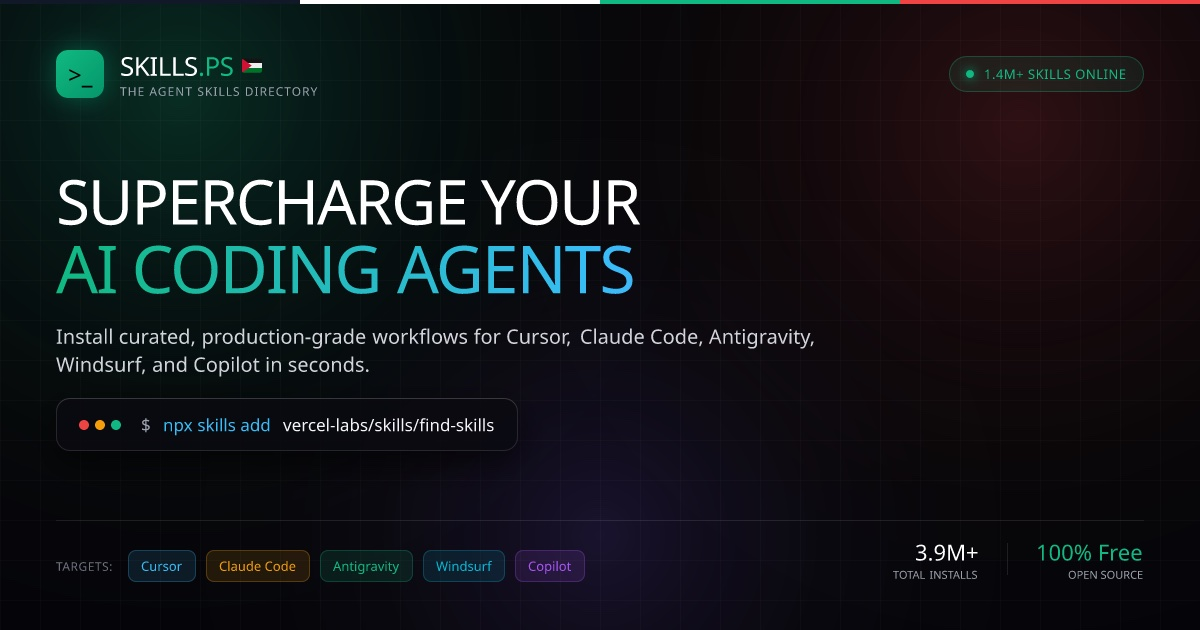
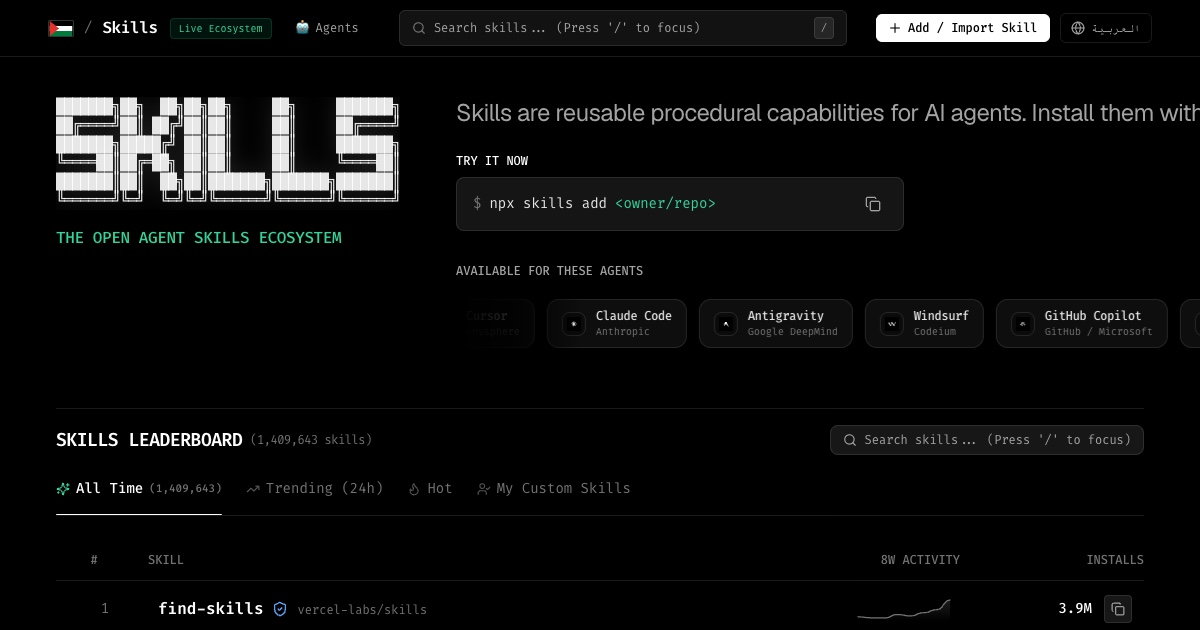
feat(og): capture authentic official product UI screenshot and clean technical metadata

diff --git a/src/app/layout.tsx b/src/app/layout.tsx
@@ -7,23 +7,23 @@ const APP_URL = process.env.NEXT_PUBLIC_APP_URL || "https://skill-ps.apps.taqat.
 export const metadata: Metadata = {
   metadataBase: new URL(APP_URL),
   title: {
-    default: "Skills.ps — The Agent Skills Directory 🇵🇸",
+    default: "Skills — The Open Agent Skills Ecosystem 🇵🇸",
     template: "%s | Skills.ps",
   },
   description:
-    "The open directory for AI coding agent skills. Discover, inspect, and install 1,400,000+ workflows for Cursor, Claude Code, Antigravity, Windsurf, and Copilot.",
+    "Skills are reusable procedural capabilities for AI agents. Discover, inspect, and install agent skills for Cursor, Claude Code, Antigravity, Windsurf, and GitHub Copilot.",
   keywords: [
-    "AI Agent Skills",
-    "Cursor Skills",
-    "Claude Code Workflows",
-    "Google Antigravity",
-    "Windsurf Rules",
-    "Developer Workflows",
-    "Agentic AI",
-    "Palestine Tech",
-    "Skills Directory",
+    "Skills",
+    "Agent Skills",
+    "Cursor",
+    "Claude Code",
+    "Antigravity",
+    "Windsurf",
+    "GitHub Copilot",
+    "skills.sh",
+    "skills.ps",
   ],
-  authors: [{ name: "Skills.ps Community", url: APP_URL }],
+  authors: [{ name: "Skills.ps", url: APP_URL }],
   creator: "Skills.ps",
   publisher: "Skills.ps",
   icons: {
@@ -34,9 +34,9 @@ export const metadata: Metadata = {
     locale: "en_US",
     alternateLocale: ["ar_PS"],
     url: APP_URL,
-    title: "Skills.ps — The Agent Skills Directory 🇵🇸",
+    title: "Skills — The Open Agent Skills Ecosystem 🇵🇸",
     description:
-      "Supercharge your AI coding agents. 1.4M+ skills & workflows for Cursor, Claude Code, Antigravity, and Windsurf.",
+      "The open directory for AI agent skills. Install skills for Cursor, Claude Code, Antigravity, Windsurf, and GitHub Copilot with one command.",
     siteName: "Skills.ps",
     images: [
       {
@@ -45,7 +45,7 @@ export const metadata: Metadata = {
         width: 1200,
         height: 630,
         type: "image/jpeg",
-        alt: "Skills.ps — The Agent Skills Directory 🇵🇸",
+        alt: "Skills — The Open Agent Skills Ecosystem",
       },
       {
         url: `${APP_URL}/og.png`,
@@ -53,15 +53,15 @@ export const metadata: Metadata = {
         width: 1200,
         height: 630,
         type: "image/png",
-        alt: "Skills.ps — The Agent Skills Directory 🇵🇸",
+        alt: "Skills — The Open Agent Skills Ecosystem",
       },
     ],
   },
   twitter: {
     card: "summary_large_image",
-    title: "Skills.ps — The Agent Skills Directory 🇵🇸",
+    title: "Skills — The Open Agent Skills Ecosystem 🇵🇸",
     description:
-      "Supercharge your AI coding agents. 1.4M+ skills & workflows for Cursor, Claude Code, Antigravity, and Windsurf.",
+      "The open directory for AI agent skills. Install skills for Cursor, Claude Code, Antigravity, Windsurf, and GitHub Copilot with one command.",
     images: [`${APP_URL}/og.jpg`],
   },
   robots: {

diff --git a/src/app/page.tsx b/src/app/page.tsx
@@ -15,15 +15,16 @@ import { Copy, Check, Terminal, Search } from "lucide-react";
 
 import { apiFetch } from "@/lib/api-config";
 import { getDynamicDeviceIdentity } from "@/lib/geo-utils";
+import { SEED_SKILLS } from "@/data/seed-skills";
 
 function HomePageContent() {
   const { t } = useLanguage();
 
   const [currentView, setCurrentView] = useState<LeaderboardView>("all-time");
-  const [skills, setSkills] = useState<SkillLeaderboardItem[]>([]);
+  const [skills, setSkills] = useState<SkillLeaderboardItem[]>(() => SEED_SKILLS.slice(0, 10));
   const [page, setPage] = useState(0);
   const [hasMore, setHasMore] = useState(true);
-  const [isLoading, setIsLoading] = useState(true);
+  const [isLoading, setIsLoading] = useState(false);
   const [cacheByView, setCacheByView] = useState<
     Record<string, { skills: SkillLeaderboardItem[]; page: number; hasMore: boolean }>
   >({});
